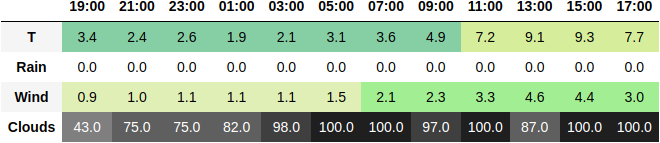
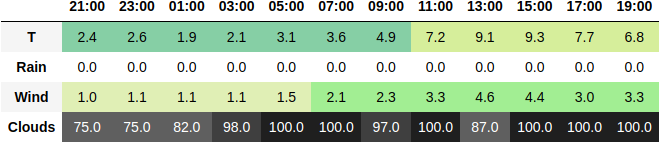
add build script

diff --git a/weather.py b/weather.py
@@ -8,18 +8,18 @@ import os
 
 base_url = "https://api.open-meteo.com/v1/forecast?"
 
-# with open("secrets.json") as f:
-#     cfg = json.load(f)
+with open("secrets.json") as f:
+    cfg = json.load(f)
 
-# lat = cfg["lat"]
-# lon = cfg["lon"]
-# telegram_key = cfg["telegram_key"]
-# telegram_chatid = cfg["telegram_chatid"]
+lat = cfg["lat"]
+lon = cfg["lon"]
+telegram_key = cfg["telegram_key"]
+telegram_chatid = cfg["telegram_chatid"]
 
-lat = os.environ["lat"]
-lon = os.environ["lon"]
-telegram_key = os.environ["telegram_key"]
-telegram_chatid = os.environ["telegram_chatid"]
+# lat = os.environ["lat"]
+# lon = os.environ["lon"]
+# telegram_key = os.environ["telegram_key"]
+# telegram_chatid = os.environ["telegram_chatid"]
 
 weather_params = {
     "latitude": lat,
@@ -210,7 +210,8 @@ def lambda_handler(event, context):
 
     styler = style_hourly_weather(hourly)
 
-    dataframe_image.export(styler, "weather.png")
+    # need headless chromium to keep formatting
+    dataframe_image.export(styler, "weather.png", table_conversion="matplotlib") 
     files = {"photo": open("weather.png", "rb")}
 
     telegram_params = {

diff --git a/shrink_venv.py b/shrink_venv.py
@@ -1,0 +1,28 @@
+# AWS lambda has a 50mb limit on package zip
+import pathlib
+import shutil
+for p in pathlib.Path('.').rglob('tests'):
+    if p.is_file():
+        p.unlink()
+    else:
+        shutil.rmtree(p)
+
+for p in pathlib.Path('.').rglob('__pycache__'):
+    if not p.is_file():
+        shutil.rmtree(p)
+        
+for p in pathlib.Path('.').rglob('*.dist-info'):
+    if p.is_file():
+        p.unlink()
+    else:
+        shutil.rmtree(p)
+
+for lib in ["libharfbuzz", "libfreetype"]:
+    for p in pathlib.Path('.').rglob(f"{lib}*"):
+        if p.is_file():
+            p.unlink()
+
+# [p.unlink() for p in pathlib.Path('.').rglob('*.dist-info')]
+[p.unlink() for p in pathlib.Path('.').rglob('*.py[co]')]
+
+shutil.rmtree("venv/lib/python3.9/site-packages/matplotlib/mpl-data/fonts")
